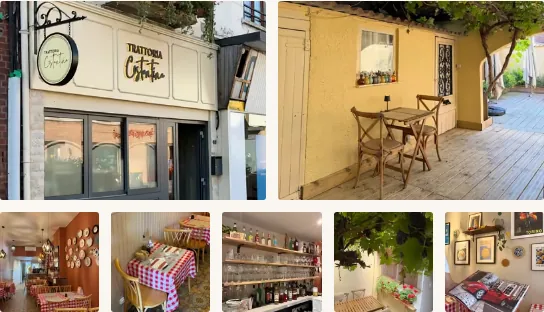
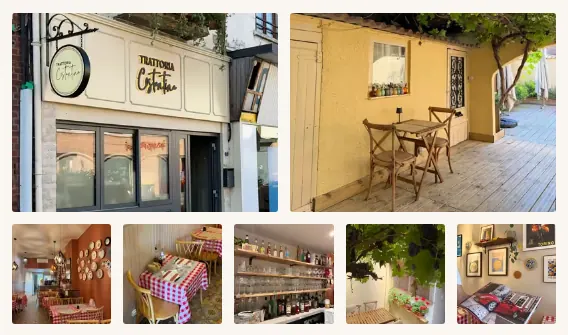
fix: preserve famille overlay and gallery fallback quality

diff --git a/tests/images/home-images.spec.ts b/tests/images/home-images.spec.ts
@@ -1,6 +1,33 @@
-import { expect, test } from '@playwright/test'
+import { expect, test, type Page } from '@playwright/test'
 
 const small = ['salle', 'table', 'bar', 'treille', 'livre']
+
+async function expectFamilleGeometry(page: Page, mobile: boolean, loaded = true) {
+  const section = page.locator('.section-famille')
+  await expect(section.locator('.famille-overlay')).toHaveCount(1)
+  const geometry = await section.evaluate((section, loaded) => {
+    const rect = (element: Element) => {
+      const { x, y, width, height } = element.getBoundingClientRect()
+      return { x, y, width, height }
+    }
+    const overlay = section.querySelector('.famille-overlay')!
+    return {
+      section: rect(section),
+      background: rect(section.querySelector('.famille-bg')!),
+      overlay: rect(overlay),
+      overlayColor: getComputedStyle(overlay).backgroundColor,
+      image: loaded ? rect(section.querySelector('img')!) : null,
+    }
+  }, loaded)
+  expect(geometry.section.height).toBeCloseTo(mobile ? 480 : 560, 1)
+  expect(geometry.section.width).toBeCloseTo(mobile ? 390 : 1440, 1)
+  for (const rectangle of [geometry.background, geometry.overlay, ...(geometry.image ? [geometry.image] : [])]) {
+    for (const key of ['x', 'y', 'width', 'height'] as const) {
+      expect(rectangle[key], `${key}: background, overlay and image cover the section`).toBeCloseTo(geometry.section[key], 1)
+    }
+  }
+  expect(geometry.overlayColor).toBe('rgba(20, 10, 4, 0.5)')
+}
 
 test('cold network selects small thumbnails, defers famille and keeps lightbox on demand', async ({ page }, testInfo) => {
   const mobile = testInfo.project.name === 'mobile'
@@ -14,6 +41,7 @@ test('cold network selects small thumbnails, defers famille and keeps lightbox o
   expect(await hero.evaluate((i: HTMLImageElement) => i.currentSrc)).toContain(mobile ? '/hero-portrait/1280.avif' : '/hero/1920.avif')
   expect(images.some((url) => /\/famille(?:-portrait)?\//.test(url))).toBe(false)
   expect(images.some((url) => url.includes('/galerie-'))).toBe(false)
+  await expectFamilleGeometry(page, mobile, false)
   const section = page.locator('.section-famille')
   expect(await section.evaluate((e) => e.getBoundingClientRect().height)).toBe(mobile ? 480 : 560)
   await section.scrollIntoViewIfNeeded()
@@ -22,28 +50,52 @@ test('cold network selects small thumbnails, defers famille and keeps lightbox o
   await expect.poll(() => images.some((url) => /\/famille(?:-portrait)?\//.test(url))).toBe(true)
   await expect.poll(() => famille.evaluate((i: HTMLImageElement) => i.complete && i.naturalWidth > 0)).toBe(true)
   expect(await section.evaluate((e) => e.getBoundingClientRect().height)).toBe(mobile ? 480 : 560)
+  await expectFamilleGeometry(page, mobile)
   await page.locator('.trouver-photos').scrollIntoViewIfNeeded()
   for (const key of small) {
     const image = page.locator(`.gallery-thumb img[src*="galerie-${key}/"]`)
     await expect.poll(() => image.evaluate((i: HTMLImageElement) => i.currentSrc)).toContain(`/galerie-${key}/${mobile ? 240 : 160}.avif`)
     await expect(image).toHaveAttribute('loading', 'lazy')
+    await expect(image).toHaveAttribute('src', `/images/galerie-${key}/800.webp`)
     expect(images.some((url) => url === `/images/galerie-${key}/1280.avif`)).toBe(false)
   }
   for (const key of ['facade', 'terrasse']) {
     const image = page.locator(`.gallery-thumb img[src*="galerie-${key}/"]`)
     await expect.poll(() => image.evaluate((i: HTMLImageElement) => i.currentSrc)).toContain(`/galerie-${key}/${mobile ? 1280 : 400}.avif`)
   }
+  const galleryBounds = await page.locator('.trouver-photos').evaluate((gallery) => {
+    const bounds = gallery.getBoundingClientRect()
+    return {
+      overflow: gallery.scrollWidth - gallery.clientWidth,
+      documentOverflow: document.documentElement.scrollWidth - innerWidth,
+      outside: [...gallery.querySelectorAll('li')].some((item) => {
+        const rect = item.getBoundingClientRect()
+        return rect.left < bounds.left - 1 || rect.right > bounds.right + 1 || rect.right > innerWidth + 1
+      }),
+    }
+  })
+  expect(galleryBounds.overflow).toBeLessThanOrEqual(1)
+  expect(galleryBounds.documentOverflow).toBeLessThanOrEqual(1)
+  expect(galleryBounds.outside).toBe(false)
   const thumbnail = page.locator('.gallery-thumb').nth(2)
   await thumbnail.click()
   const lightbox = page.locator('.gallery-dialog img')
   await expect(lightbox).toHaveAttribute('loading', 'eager')
   await expect.poll(() => lightbox.evaluate((i: HTMLImageElement) => i.currentSrc)).toContain(`/galerie-salle/${mobile ? 1280 : 800}.avif`)
   await expect.poll(() => lightbox.evaluate((i: HTMLImageElement) => i.complete && i.naturalWidth > 0)).toBe(true)
+  await expect(lightbox).toHaveAttribute('src', '/images/galerie-salle/800.webp')
+  // Simulate a client ignoring picture/srcset, after verifying modern selection.
+  await lightbox.evaluate((image) => {
+    image.parentElement!.querySelectorAll('source').forEach((source) => source.remove())
+    image.removeAttribute('srcset')
+  })
+  await expect.poll(() => lightbox.evaluate((i: HTMLImageElement) => i.currentSrc)).toContain('/galerie-salle/800.webp')
+  await expect.poll(() => lightbox.evaluate((i: HTMLImageElement) => i.complete && i.naturalWidth > 0)).toBe(true)
   await page.keyboard.press('Escape')
   await expect(page.locator('.gallery-dialog')).not.toBeVisible()
 })
 
-test('famille loads without IntersectionObserver', async ({ page }) => {
+test('famille loads without IntersectionObserver', async ({ page }, testInfo) => {
   const errors: string[] = []
   page.on('pageerror', (error) => errors.push(error.message))
   await page.addInitScript(() => { delete (window as unknown as { IntersectionObserver?: unknown }).IntersectionObserver })
@@ -51,13 +103,14 @@ test('famille loads without IntersectionObserver', async ({ page }) => {
   await expect(page.locator('.famille-bg > picture img')).toHaveAttribute('loading', 'lazy')
   await page.locator('.section-famille').scrollIntoViewIfNeeded()
   await expect.poll(() => page.locator('.famille-bg > picture img').evaluate((i: HTMLImageElement) => i.complete && i.naturalWidth > 0)).toBe(true)
+  await expectFamilleGeometry(page, testInfo.project.name === 'mobile')
   expect(errors).toEqual([])
 })
 
 test('server-rendered hero and famille work with JavaScript disabled', async ({ browser }, testInfo) => {
   const context = await browser.newContext({ ...testInfo.project.use, javaScriptEnabled: false })
   const page = await context.newPage()
-  await page.goto('http://127.0.0.1:3187/')
+  await page.goto('/')
   await expect(page.locator('#hero img')).toHaveAttribute('fetchpriority', 'high')
   await expect.poll(() => page.locator('#hero img').evaluate((i: HTMLImageElement) => i.complete && i.naturalWidth > 0)).toBe(true)
   await page.locator('.section-famille').scrollIntoViewIfNeeded()
@@ -65,5 +118,6 @@ test('server-rendered hero and famille work with JavaScript disabled', async ({ 
   await expect(image).toHaveAttribute('loading', 'lazy')
   await expect(image).toHaveAttribute('alt', /Salle du restaurant/)
   await expect.poll(() => image.evaluate((i: HTMLImageElement) => i.complete && i.naturalWidth > 0)).toBe(true)
+  await expectFamilleGeometry(page, testInfo.project.name === 'mobile')
   await context.close()
 })

diff --git a/components/Picture.tsx b/components/Picture.tsx
@@ -32,6 +32,11 @@ export function Picture({ image, alt, sizes, className, priority = false, loadin
   const { formats, variants } = manifest[image]
   const fallback = formats[formats.length - 1]
   const { width, height } = largest(image)
+  // Gallery src must still serve lightboxes when picture/srcset is unsupported.
+  // New thumbnail widths must not shift the previous 800px plain-src fallback.
+  const fallbackVariant = image.startsWith('galerie-')
+    ? (variants.find((variant) => variant.width >= 800) ?? variants[variants.length - 1])
+    : variants[Math.min(1, variants.length - 1)]
 
   return (
     <picture>
@@ -52,7 +57,7 @@ export function Picture({ image, alt, sizes, className, priority = false, loadin
         <source key={format} type={MIME[format]} srcSet={srcSet(image, format)} sizes={sizes} />
       ))}
       <img
-        src={`/images/${image}/${variants[Math.min(1, variants.length - 1)].width}.${fallback}`}
+        src={`/images/${image}/${fallbackVariant.width}.${fallback}`}
         srcSet={srcSet(image, fallback)}
         sizes={sizes}
         width={width}

diff --git a/components/sections/Famille.tsx b/components/sections/Famille.tsx
@@ -13,7 +13,6 @@ export function Famille() {
           sizes="100vw"
           artDirection={[{ image: 'famille-portrait', media: '(max-width: 640px)', sizes: 'max(100vw, 384px)' }]}
         />
-        <div className="famille-overlay"></div>
       </FamilleImage>
       <div className="famille-content">
         <div className="divider-diamond">✦</div>

diff --git a/components/sections/FamilleImage.tsx b/components/sections/FamilleImage.tsx
@@ -27,6 +27,7 @@ export function FamilleImage({ children }: { children: ReactNode }) {
     <div className="famille-bg" ref={container}>
       {ready && children}
       <noscript>{children}</noscript>
+      <div className="famille-overlay"></div>
     </div>
   )
 }

diff --git a/docs/homepage-images.md b/docs/homepage-images.md
@@ -1,23 +1,33 @@
 # Homepage image transfer
 
-Phase 1 base: `f8d9ea1`. Linear lookup returned `linear_not_connected`; no issue ID is available.
+Baseline: `f8d9ea1`, production build, desktop 1440×900 DPR1 and emulated iPhone 12 390×844 DPR3 in Chromium. No production environment or database is required; database-backed menu photos are absent in this baseline. Physical iOS Safari is outside these measurements.
 
-The hero component and every existing image file are unchanged. The five small gallery thumbnails gain 160×213 and 240×320 portrait variants in AVIF/WebP. `Picture` already builds its srcset from the manifest, so no generic component changes are needed. Existing sizes, alt text, geometry, source order, large thumbnails and lightbox behavior remain intact. Large 4:3 thumbnails crop 3:4 sources with `object-fit: cover`; preserve their existing selections and detail rather than reasoning from width × DPR alone.
+## Image selection and loading
 
-Original source filenames were searched for in the accessible project/report locations but were not found. Only the new small variants are derived from the existing 1280px WebP files (not from the smaller AVIF thumbnails). Existing 400/800/1280 files are never rewritten by this command:
+The hero component, source images, responsive selections and eager/high priority are unchanged. All pre-existing image files are byte-identical to the baseline.
+
+Five small gallery thumbnails gain 160×213 and 240×320 AVIF/WebP variants. Existing sizes, alt text, geometry and source order remain intact. Modern browsers select 160px on desktop and 240px on mobile. Large thumbnails retain 400px desktop / 1280px mobile; lightboxes retain 800px desktop / 1280px mobile. Gallery plain `src` selects the first variant at least 800px wide, preserving the previous fallback on clients without picture/srcset support. Other image fallbacks are unchanged.
+
+Large 4:3 thumbnails crop 3:4 sources with `object-fit: cover`; their existing detail and crops are preserved. Width × DPR alone is not a reason to reduce those sources.
+
+`FamilleImage` reserves the existing fixed-height section and mounts its lazy picture within a 400px observer margin. Its single dark overlay is always rendered, including before picture mounting. A server-rendered `<noscript>` picture supports JavaScript-disabled browsers; a scheduled mount retains native lazy loading without IntersectionObserver. The reservation CTA has a capability guard because its pre-existing unconditional observer crashed the homepage when that API was absent.
+
+## Reproducing the new assets
+
+Run commands from the repository root with Node 24 and the existing lockfile:
 
 ```sh
 npm ci --ignore-scripts
 node scripts/optimize-images.mjs --small-only
 ```
 
-The config records `smallSource` and `smallWidths`. This mode updates only those widths and their manifest entries, retaining other entries. It decodes the checked-in WebP, resizes with Lanczos3 and uses the existing encoders (AVIF quality 50, WebP quality 68); metadata is stripped. It does introduce a lossy generation for these new thumbnails only. Running it twice reproduced the same bytes using the locked Sharp version. The full generator with `--source <original-photos-directory>` still generates from originals, including the new widths; it is intentionally **not** the command for reproducing these derived files or preserving the existing asset bytes.
+Original gallery photos were unavailable. Only the new small variants derive from the checked-in 1280px WebP files; existing 400/800/1280 files are not rewritten. The config records `smallSource` and `smallWidths`. Generation decodes that source, resizes with Lanczos3, strips metadata and uses the existing AVIF quality 50 / WebP quality 68 encoders. This introduces a lossy generation only for the new thumbnails. All 20 files and the manifest reproduce byte-identically with the locked Sharp version.
 
-`FamilleImage` reserves the existing `.famille-bg` inside the fixed-height section (560px desktop, 480px mobile). It mounts the unchanged lazy picture when IntersectionObserver reaches a 400px prefetch margin. The observer disconnects after the first intersection and on unmount. A server-rendered `<noscript>` picture works without JavaScript; a scheduled mount retains native lazy loading when IntersectionObserver is absent. The reservation CTA also needs a capability guard: its existing unconditional observer otherwise crashes the whole homepage in that fallback scenario. The hero remains server-rendered, eager/high, independent of this enhancement.
+Full generation with `--source <original-photos-directory>` instead uses originals, including for small widths. It does not reproduce the derived thumbnail bytes or preserve existing assets.
 
-## Checks without a database
+## Verification
 
-Use Node 24 and the existing lockfile. Do not invoke the ordinary Playwright config for this audit: that config loads local env and has database setup/mutation fixtures.
+Build and run from an env-free temporary checkout, excluding `.env*`, `.git`, `.next` and `node_modules`, then install its existing lockfile. Dependencies must reside inside that build root; Turbopack rejects an external node_modules symlink. Temporary artifacts should be under the configured `TMPDIR`.
 
 ```sh
 npm run lint
@@ -25,63 +35,64 @@ npm run typecheck
 npm test
 npm run build
 npm run start -- -H 127.0.0.1 -p 3187
-# In another shell, against the running production build:
+# In another shell against that production server:
 npx --no-install playwright test --config playwright.images.config.ts
+# Optional, from the repository root when the base Git object is available:
+node scripts/check-image-invariance.mjs f8d9ea1
 ```
 
-The image-specific config has no webServer, env loading or global setup. It uses Chromium for both desktop 1440×900 DPR1 and emulated iPhone 12 390×844 DPR3. The tests use fresh contexts, verify actual request/source selection, initial Famille deferral and loading on scroll, reserved geometry, both fallbacks, hero SSR/eager/high, unchanged large thumbnail selection, and lightbox loading on demand without requiring Git history. Optional audit invariance is separate: `node scripts/check-image-invariance.mjs f8d9ea1` compares all pre-existing image files and Hero.tsx when that base object is available. Browser tests work in shallow checkouts and source archives. Test artifacts use `join(tmpdir(), 'trattoria-image-tests')`, respecting `TMPDIR`. No DB is needed; the menu's unavailable state is expected. Physical Safari and production database-backed menu photos are outside this audit.
+The image-specific Playwright config has no environment loading, database setup or mutation fixtures. Do not use the ordinary DB-backed test config for this audit. Artifacts use `join(tmpdir(), 'trattoria-image-tests')`. The six browser cases work without Git history and cover network selection, Famille deferral/scroll loading, actual geometry and overlay coverage in all three modes, plain-src lightbox fallback, gallery bounds, and server-rendered eager/high hero behavior.
 
-For an environment-free build, archive/copy the checkout into a temporary directory excluding `.env*`, `.git`, `.next` and `node_modules`, then install the existing lockfile there. Do not use a node_modules symlink outside the build root: Turbopack rejects it. No production configuration or secrets are required.
+Lint, typecheck, 229 unit tests, the production build, all six browser cases and invariance of 87 existing image/hero files passed.
 
-## Repeating the browser measurement
+## Repeating the measurement
 
-The portable script is checked in at [scripts/measure-home-images.mjs](../scripts/measure-home-images.mjs). It uses dependencies from `--source` (defaults to this checkout), requires a **new** output directory via `--out`, and accepts `--baseURL`. It does not read env files. The output directory's parent must exist; the script creates the final directory and refuses to overwrite an existing baseline.
-
-With the env-free production build running on port 3187:
+The checked-in [measurement script](../scripts/measure-home-images.mjs) accepts portable arguments and never loads env files. `--source` defaults to this checkout and resolves its existing Playwright/Sharp dependencies. `--out` must be a new directory with an existing parent; an existing output directory is rejected.
 
 ```sh
 node scripts/measure-home-images.mjs \
   --source /absolute/path/to/built/checkout \
-  --out /absolute/path/to/new-output-directory \
+  --out "$TMPDIR/trattoria-image-audit-after" \
   --baseURL http://127.0.0.1:3187
 ```
 
-For temporary artifacts, choose a new directory under your configured `TMPDIR`, or use an ignored repo-relative directory (for example `test-results/image-audit`). `--source` points to the checkout containing the existing lockfile-installed Playwright and Sharp; it need not contain Git history. The app under test runs separately at `--baseURL`.
+Use a fresh output name for each run. Each device gets a fresh context with enabled, initially empty HTTP cache, unthrottled localhost network and no CPU throttle. The runner waits for networkidle plus 1500ms, captures the initial viewport, scrolls by 70% viewport every 350ms, waits 1500ms, captures the full page, then opens all seven lightboxes separately with cache retained. JSON records URLs, transfer/body bytes, image dimensions, rendered boxes, priorities, loading, cache headers and computed CSS images. The reservation iframe makes read-only availability requests; no booking/form is submitted.
 
-Historical before/after evidence used the original external `before/measure.cjs`. The checked-in version changes only argument/dependency/output setup; the measurement loop and JSON schema are unchanged, and historical results have not been replaced. Each device gets a fresh browser context with normal, initially empty HTTP cache. Network and CPU are unthrottled on localhost. It waits for networkidle plus 1500ms before the initial snapshot; scrolls progressively by 70% viewport every 350ms; waits 1500ms; takes a full-page screenshot; then opens all seven lightboxes separately with cache retained. JSON records actual URLs, CDP transfer bytes (including response overhead), response-body bytes, decoded file dimensions, rendered boxes, sizes, priorities, loading, cache headers and computed CSS images. Screenshots and full baselines belong outside git. The live reservation iframe performs read-only availability requests; no form or booking is submitted.
+The measurement loop is unchanged from the baseline runner. Raw PNGs, JSON and detailed geometry remain in the separately supplied evidence bundle, under `before/`, `after/` and `quality/`; these large artifacts are not committed. `quality/measurement/` is the latest measurement. Its image URL/phase/dimension/byte ledger exactly matches the earlier after run, with no page JavaScript errors.
 
-Evidence directory: `/home/nora/jeff-workspace/reports/2026-10-28-trattoria-images/`, with `before/` and `after/` JSON, initial/full-page screenshots and command logs. No CSS/background network images or hidden duplicate/lightbox images were found in phase 1, including the supplemental iframe scan.
+## Results
 
-## Before/after evidence
-
-Actual image transfer bytes, including HTTP response overhead; the original unchanged measurement script and cold-cache conditions described above. Full page is cumulative; scroll and lightboxes are additional.
+Image transfer bytes include HTTP response overhead. Scroll and lightbox columns are additional; full page is cumulative. The final build was remeasured: transfer and body bytes remain unchanged after the overlay/fallback corrections.
 
 | Device | Initial before → after | Scroll additional before → after | Full page before → after | Seven lightboxes additional before → after |
 |---|---:|---:|---:|---:|
-| desktop | 250,553 → 196,304 | 146,355 → 130,298 | 396,908 → 326,602 | 435,223 → 435,223 |
-| mobile | 334,452 → 273,647 | 482,714 → 491,715 | 817,166 → 765,362 | 555,076 → 555,076 |
+| Desktop | 250,553 → 196,304 | 146,355 → 130,298 | 396,908 → 326,602 | 435,223 → 435,223 |
+| Mobile | 334,452 → 273,647 | 482,714 → 491,715 | 817,166 → 765,362 | 555,076 → 555,076 |
 
-Desktop full-page savings: 70,306 bytes (17.7%); mobile: 51,804 bytes (6.3%). Initial savings: 54,249 bytes (21.7%) desktop and 60,805 bytes (18.2%) mobile, from deferring Famille. Scroll-only transfer increases on mobile because Famille moves into that phase; cumulative full-page transfer decreases. The five small thumbnails now select 160px on desktop and 240px on mobile, transferring 24,402 and 42,904 bytes respectively versus 94,708 bytes before. Large thumbnails still select 400px desktop and 1280px mobile; all existing files remain byte-identical. Lightbox additional requests remain seven desktop / five mobile (the two large mobile sources are reused).
+Full-page savings: 70,306 bytes (17.7%) desktop and 51,804 bytes (6.3%) mobile. Initial savings from Famille deferral: 54,249 bytes (21.7%) and 60,805 bytes (18.2%). Mobile scroll-only bytes increase because Famille moves into that phase. The five small thumbnails transfer 24,402 / 42,904 bytes, versus 94,708 before. Lightboxes add seven desktop / five mobile requests because the two large mobile sources are reused.
 
-Hero selections and image file SHA-256 are identical before/after:
+Hero selected files and SHA-256 are unchanged:
 
[4 lines of base64/hex data omitted]
 
-Pixel comparison used original lossless PNGs, decoded to raw RGBA, over the entire initial viewport (hero plus navigation, text and CTA). Desktop 1440×900: **0 / 1,296,000 pixels changed**. Mobile DPR3 1170×2532: **0 / 2,962,440 pixels changed**. Exact raw pixel hashes, selected URLs and source image hashes are recorded externally in `after/hero-pixel-comparison.json`, `after/comparison.json` and `after/asset-invariance.json` (87 existing files unchanged).
+The entire initial viewport is pixel-identical to baseline: 0 changed pixels out of 1,296,000 desktop and 2,962,440 mobile DPR3 pixels, including hero, navigation, text and CTA.
 
-The captures below are real after screenshots converted with the existing Sharp dependency for review display; they are resized WebP previews, not the files used for pixel comparison. Original initial/full-page/gallery PNGs remain externally under `after/`. Conversion is reproducible with external `after/visual-evidence.cjs <repo>/docs/image-performance-evidence`. All four previews total about 316 KB.
+### Famille and gallery geometry
+
+Normal, no-JavaScript and no-IntersectionObserver captures measure identical section/image/background/overlay rectangles: 1440×560 CSS px desktop and 390×480 mobile. Exactly one overlay uses `rgba(20, 10, 4, 0.5)`, including before the normal picture mounts. No-JS and no-IO section screenshots are pixel-identical to normal on both devices. The six original PNGs are named `<device>-famille-<normal|no-js|no-io>.png` in the external `quality/` bundle; measured rectangles are in `geometry.json`.
+
+Gallery bounds are identical before/after: desktop x=152, width=544, right=696; mobile x=32, width=326, right=358 CSS px. Rightmost thumbnail edges are 695.984 / 357.984, within the gallery and viewport. Gallery scrollWidth equals clientWidth, and document width equals viewport width: no horizontal overflow or layout regression. The earlier tight element captures placed the outer edge at the screenshot boundary; padded captures below show complete thumbnails. Baseline galleries were freshly captured from the original production build with the same viewport/DPR. No gallery CSS changed.
+
+### Lightweight captures
+
+These WebP previews are resized from real lossless QA PNGs. Pixel comparisons use the original external PNGs, not these previews.
 
 | Desktop after | Mobile after |
 |---|---|
-| ![Desktop initial viewport after](image-performance-evidence/desktop-after.webp) | ![Mobile initial viewport after](image-performance-evidence/mobile-after.webp) |
-| ![Desktop gallery after](image-performance-evidence/desktop-gallery-after.webp) | ![Mobile gallery after](image-performance-evidence/mobile-gallery-after.webp) |
+| ![Desktop initial viewport](image-performance-evidence/desktop-after.webp) | ![Mobile initial viewport](image-performance-evidence/mobile-after.webp) |
 
-Validation: lint and typecheck passed; 229 unit tests across 16 files passed; env-free production build passed; 8 focused Playwright cases passed. Small-only generation reproduced all 20 new files plus manifest byte-identically. Public test config has no DB setup/mutation. No env, auth, DB, CI, production config, package/lockfile or existing hero/image asset changes. Browser binary and build tooling troubleshooting outputs stay in the external evidence directory. No PR published; stop for independent Claude review.
-
-
-Pre-review portability follow-up: the ordinary focused suite now has six browser cases, with the former twice-run Git-history assertion moved to the explicit standalone invariance command. The original implementation validation above (eight cases including those two invariance runs) remains the historical result.
-
-Portability validation: lint and typecheck passed; all six browser cases passed both in the working checkout and from an env-free source archive with no `.git` directory. A custom `TMPDIR` placed Playwright's `.last-run.json` under `<TMPDIR>/trattoria-image-tests/`. The explicit invariance command passed for all 87 existing files. A separate portable measurement validation is saved under external `after/portable-validation/`; accepted `before/` and `after/` baselines were not overwritten.
-
-The portable validation reproduced the accepted after run exactly for both devices: image URLs, phases, transfer/body bytes and file dimensions all matched (`after/portable-comparison.json`), with no page JavaScript errors. The measurement loop itself was checked byte-for-byte against the historical script.
+| Gallery | Desktop | Mobile |
+|---|---|---|
+| Before | ![Desktop gallery before](image-performance-evidence/desktop-gallery-before.webp) | ![Mobile gallery before](image-performance-evidence/mobile-gallery-before.webp) |
+| After | ![Desktop gallery after](image-performance-evidence/desktop-gallery-after.webp) | ![Mobile gallery after](image-performance-evidence/mobile-gallery-after.webp) |
